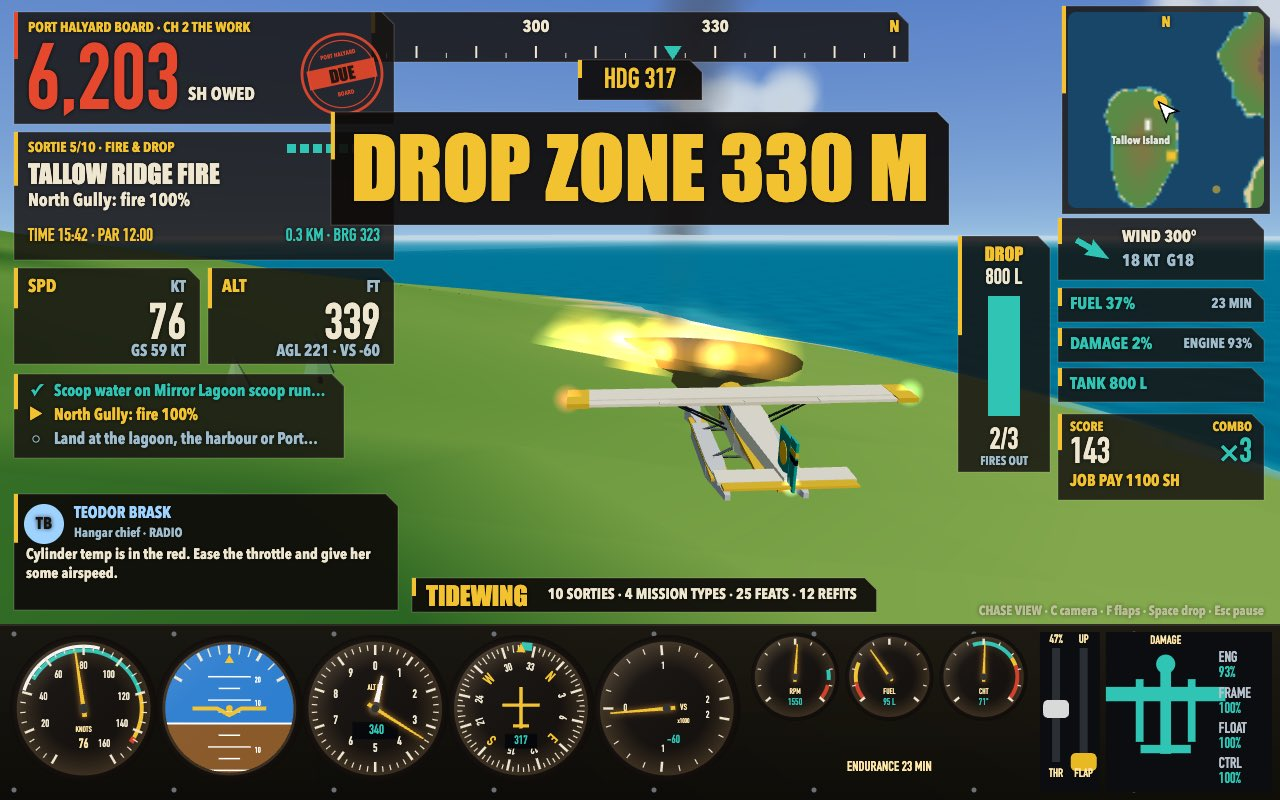
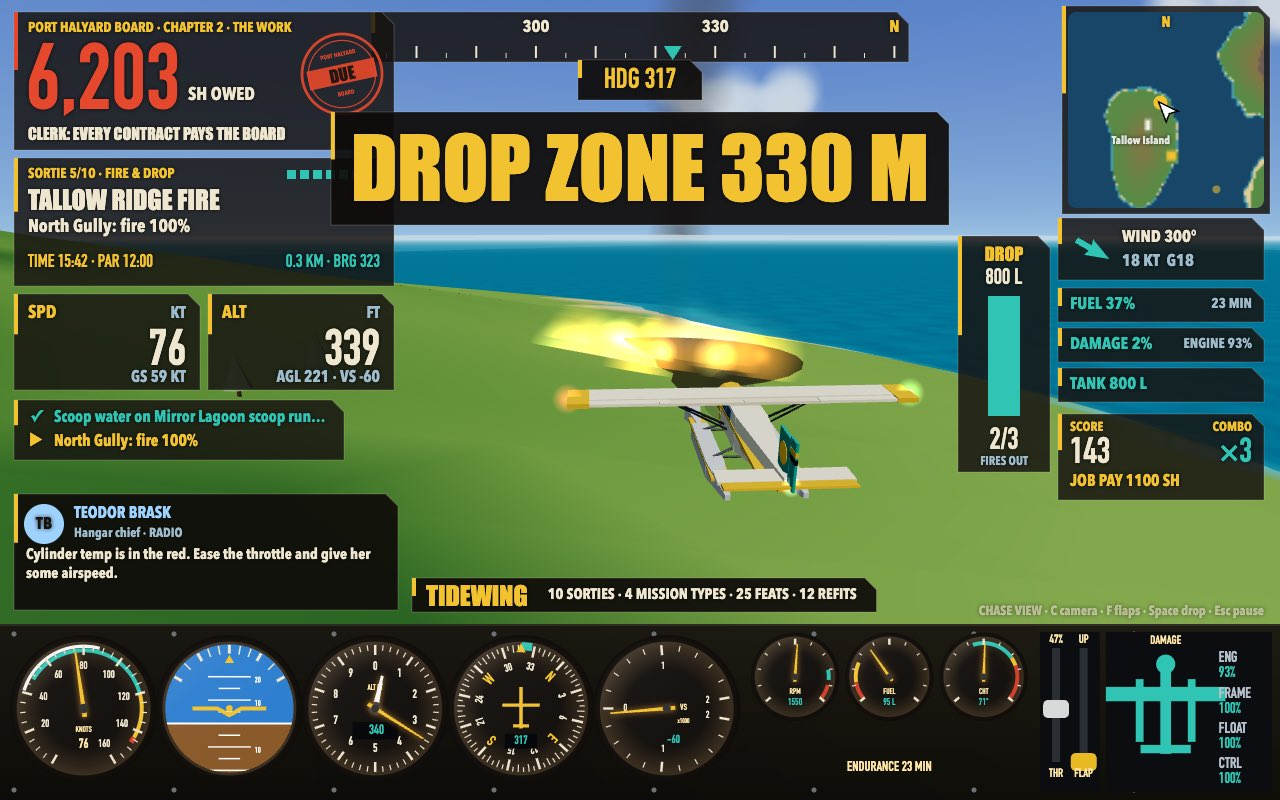
feat(hud): the clerk's chapter line on the note card; sheet re-rendered

Changed region(s): [[0.0, 0.1562, 0.3125, 0.5938], [0.125, 0.0, 0.2188, 0.0625]]

diff --git a/game/src/hud/flightHud.js b/game/src/hud/flightHud.js
@@ -134,9 +134,10 @@ function noteCard(ctx, note) {
   const x = 14;
   const y = 12;
   const w = 380;
-  const h = 112;
+  const h = 138;
   box(ctx, x, y, w, h, { tab: CORAL });
-  text(ctx, `PORT HALYARD BOARD · CH ${note.chapter.no} ${note.chapter.title}`, x + 14, y + 17, 14, AMBER);
+  text(ctx, `PORT HALYARD BOARD · CHAPTER ${note.chapter.no} · ${note.chapter.title}`, x + 14, y + 17, 14, AMBER);
+  text(ctx, `CLERK: ${note.chapter.plate.toUpperCase()}`, x + 14, y + 122, 16, INK, 'left', 'display');
   const left = note.left.toLocaleString('en-US');
   text(ctx, left, x + 12, y + 70, 92, note.left ? CORAL : CYAN, 'left', 'numeral');
   const lw = measure(ctx, left, 92, 'numeral');
